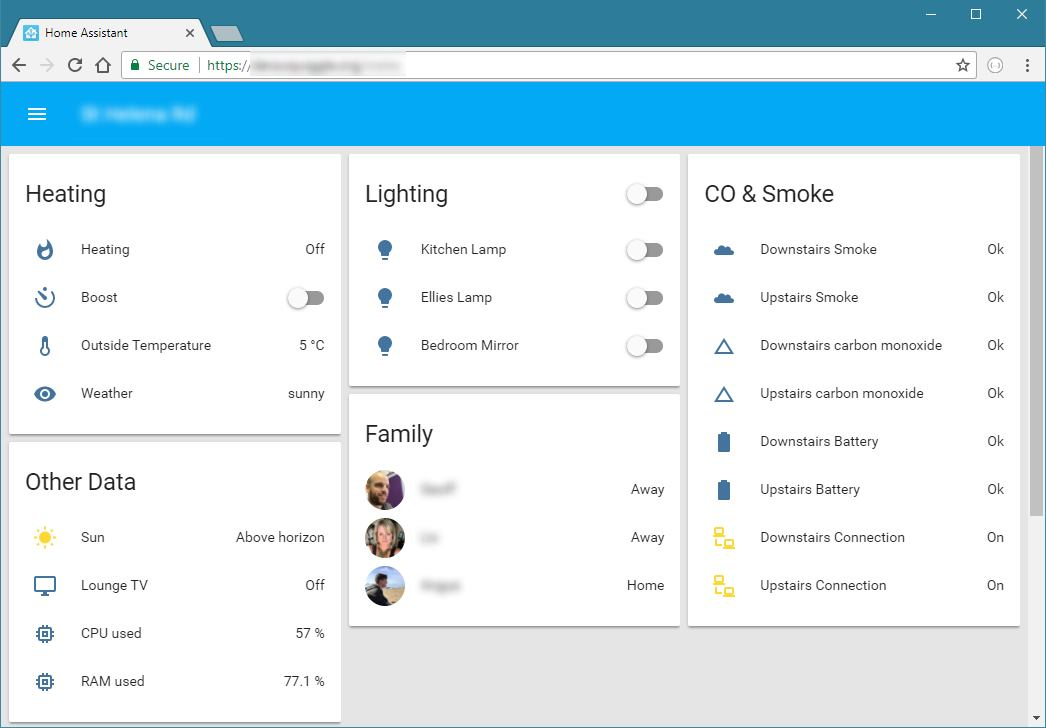
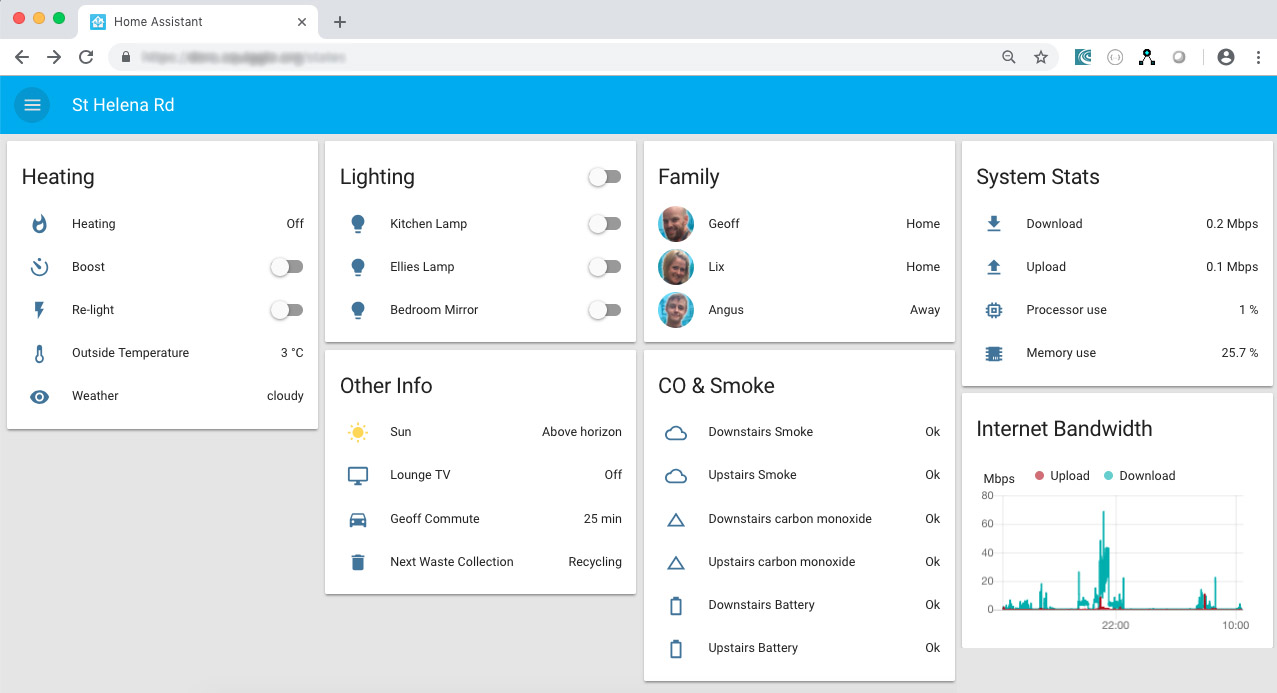
update readme

diff --git a/README.md b/README.md
@@ -5,9 +5,13 @@ Components include:
 * Nest Protect (Smoke and Carbon monoxide detectors)
 * TP-Link Smart Plugs
 * Sonoff ESP8266 switches
+* Samsung TV
 * Central heating (via Raspberry Pi GPIO controlled relay board)
 * Met Office (Temperature and weather)
 * Presence Detection (Home Assistant iOS app)
+* Fritz Router (Internet usage graphs)
+* Waze/Google-Maps (For high commute time warnings)
+* Custom sensors (General or recyclying waste collection)
 
 Looks a bit like this:
 ![home assistant](https://raw.githubusercontent.com/squiggleuk/home-assistant-config/master/screenshot.jpg)
